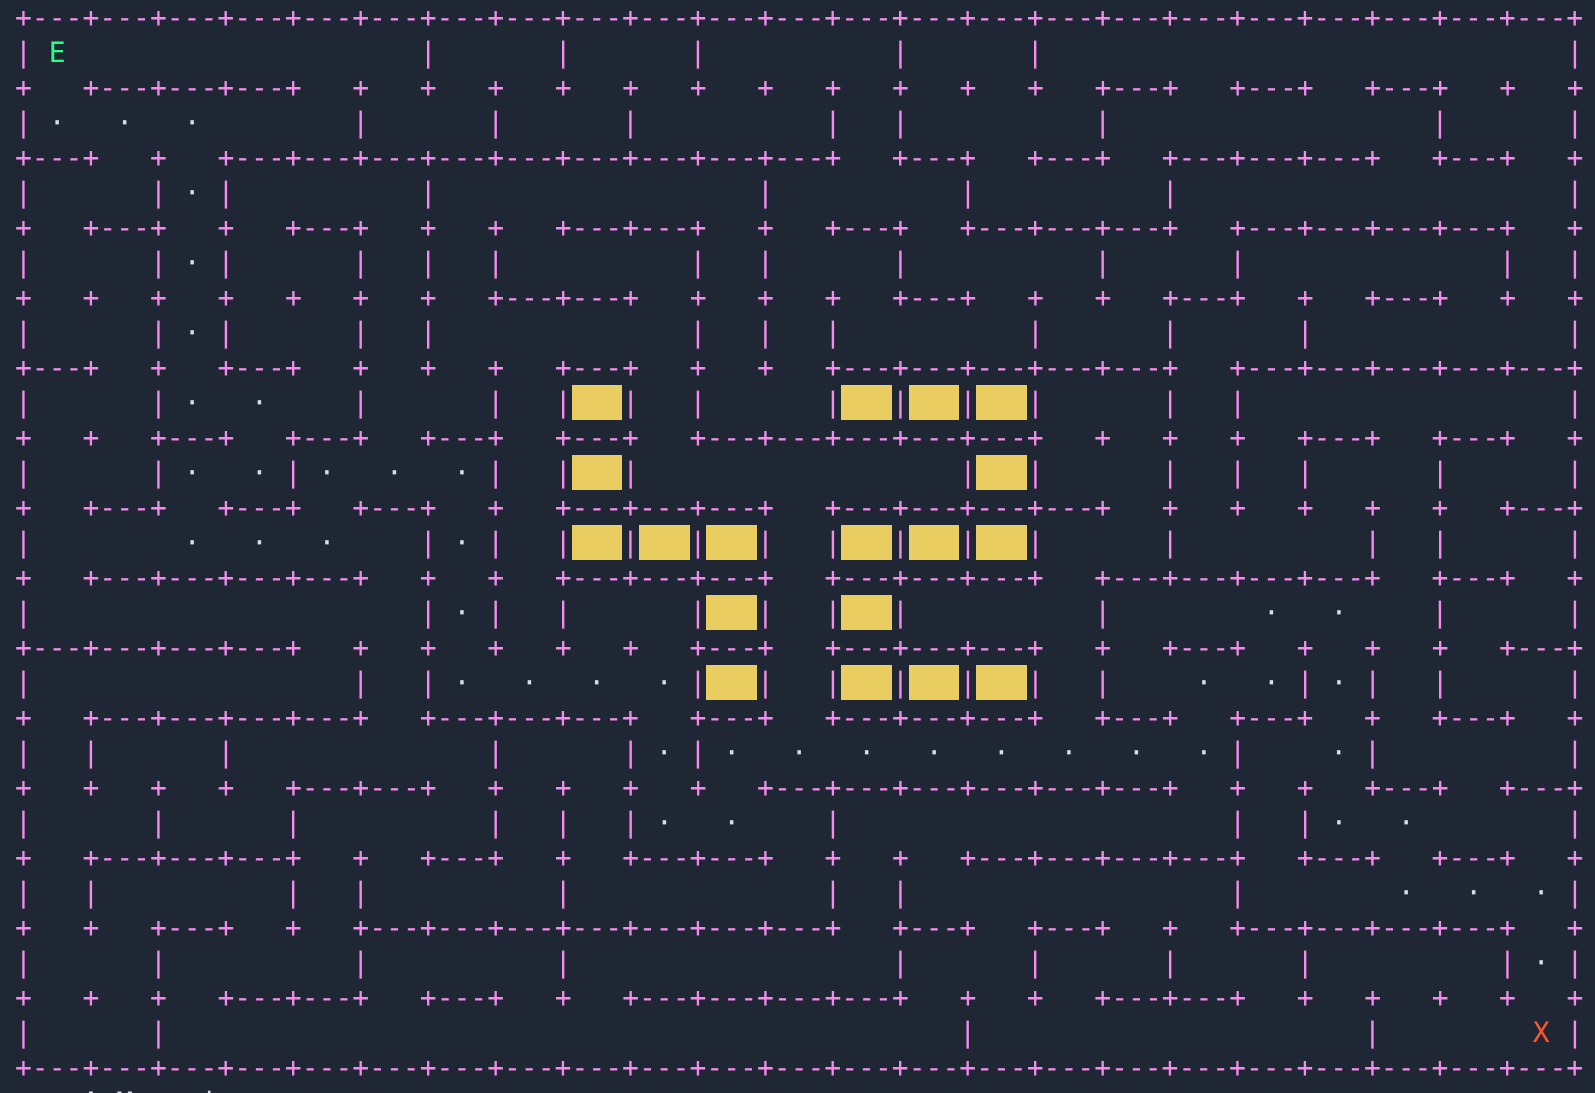
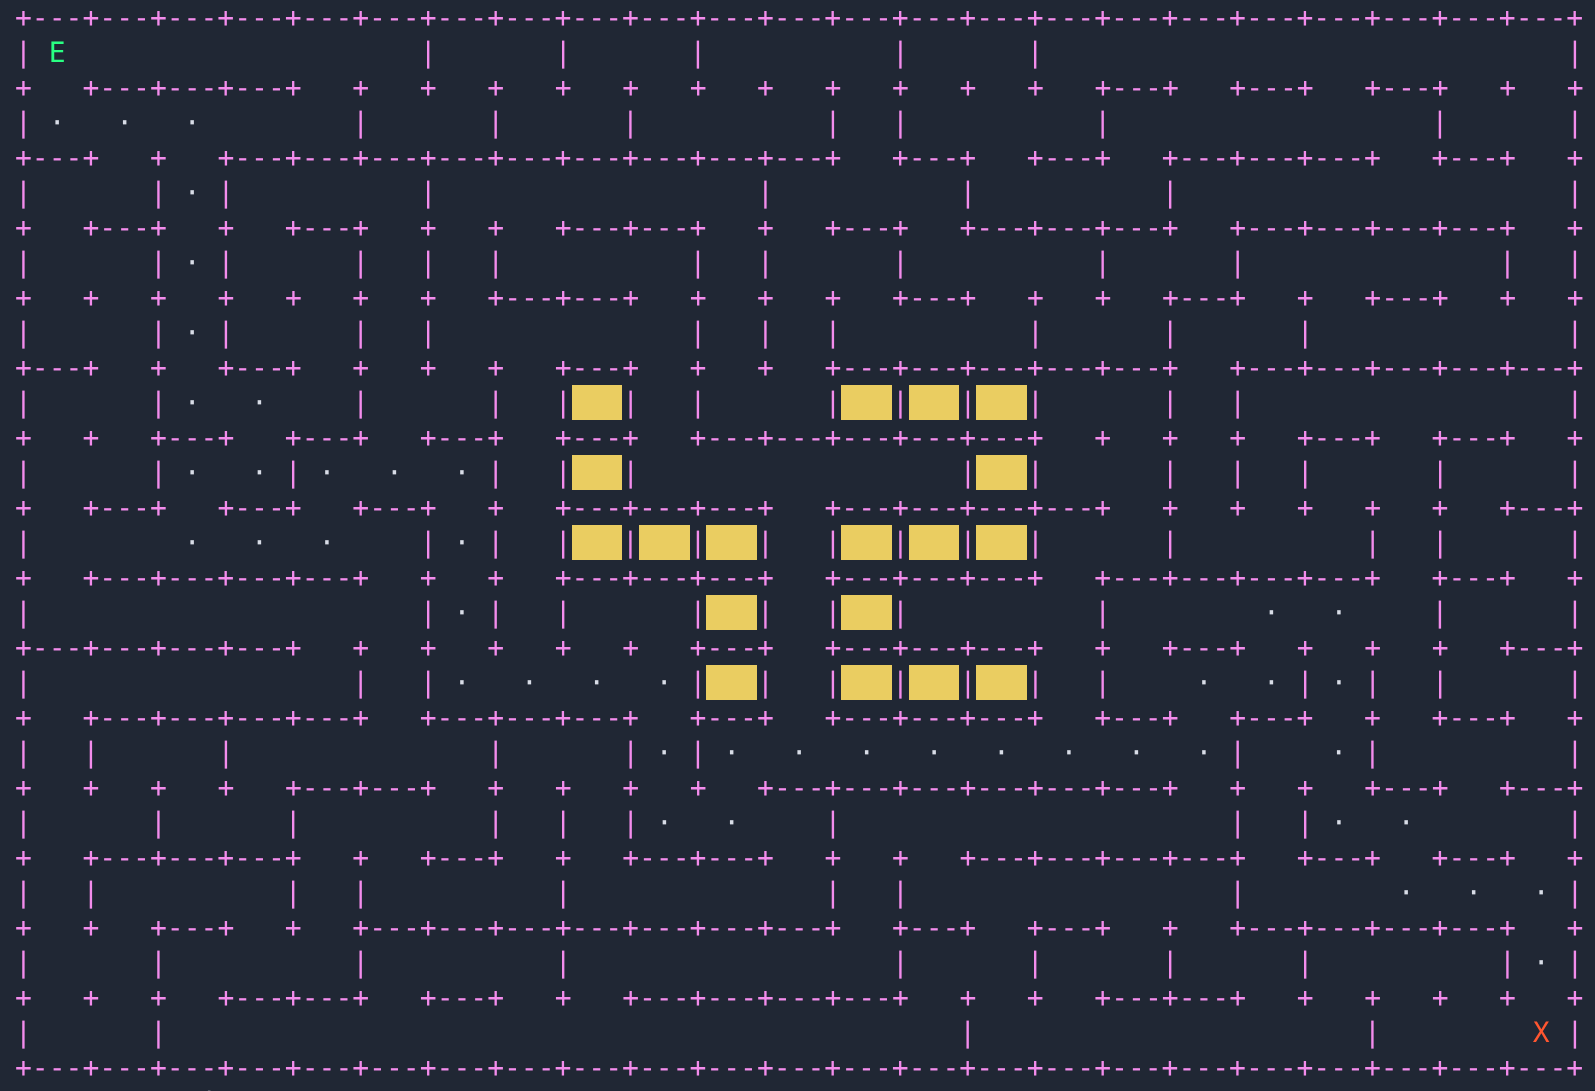
edited readme and png

diff --git a/a_maze_ing.py b/a_maze_ing.py
@@ -7,13 +7,13 @@ from mazegen import MazeGenerator
 
 if __name__ == "__main__":
     if len(sys.argv) != 2:
-        print("Error: file not found")
+        print("Usage: python3 a_maze_ing.py <config_file>")
         exit()
     config: Config = Config()
     config.read_from_file(sys.argv[1])
     M = MazeGenerator(config.width, config.height, config.entry,
                       config.exit, config.perfect, config.seed)
-    vis: Visualizer = Visualizer()
     M.generate()
+    vis: Visualizer = Visualizer()
     vis.run_visualizer(M)
     M.save(config.output_file)

diff --git a/README.md b/README.md
@@ -88,14 +88,16 @@ To find the shortest path, the A* search algorithm has been chosen because it co
 
 ```
 a-maze-ing/
+├── maze_io/
+│   ├── __init__.py
+│   ├── parser.py
+│   └── visualizer.md
 ├── mazegen/
 │   ├── __init__.py
 │   ├── cell.py
 │   ├── mazegenerator.py
 │   └── README.md
 ├── a_maze_ing.py
-├── parser.py
-├── visualizer.py
 ├── config.txt
 ├── requirements.txt
 ├── Makefile
@@ -277,6 +279,15 @@ We have made use of AI to clarify concepts and debug errors.
 |alvespin|paduarte|
 |:------|:------|
 |<ul>    <li>Cell and maze classes</li><li>Perfect and imperfect<br> maze generation algorithms</li><li>Output file creation<br>and format</li>    </ul>|<ul>    <li>Configuration file parsing</li><li>ASCII representation</li><li>Interactive menu</li><li>Path finding algorithm</li><li>Seed handling</li>    </ul>|
+
+### Further modifications
+
+This repo contains changes made by *alvespin* after the project's submission.
+
+- *parser.py* and *visualizer.py* moved to their own module folder. Previously standalone files.
+- The user can type 'max' in place of an integer in a coordinate value to get the maximum value posible, taken directly from the WIDTH or HEIGHT.
+- Animation ...
+- change perfect on menu ...
 
 <!--
 ##### Mandatory values
